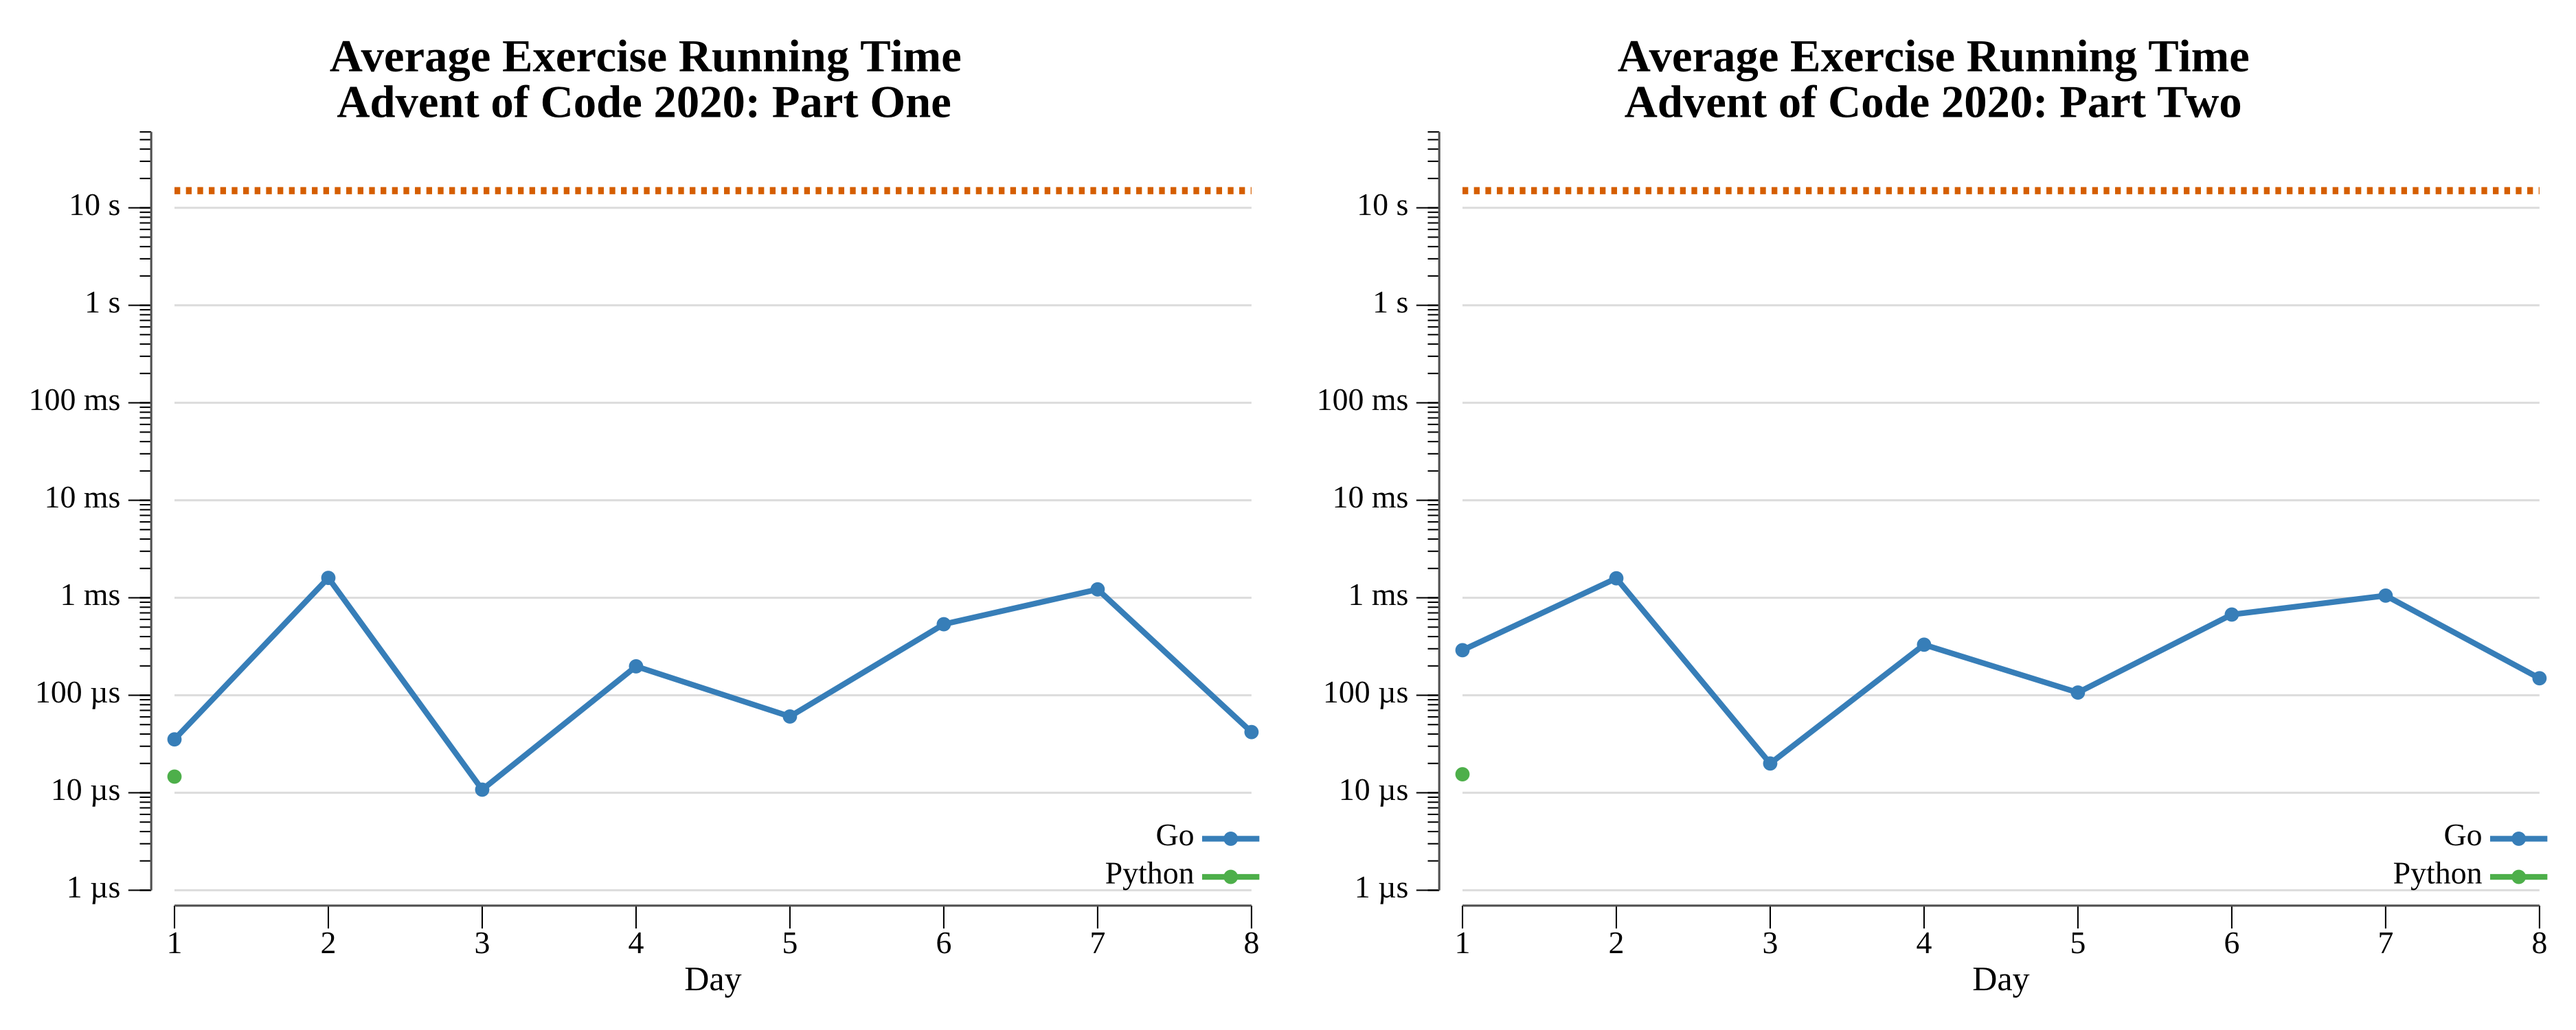
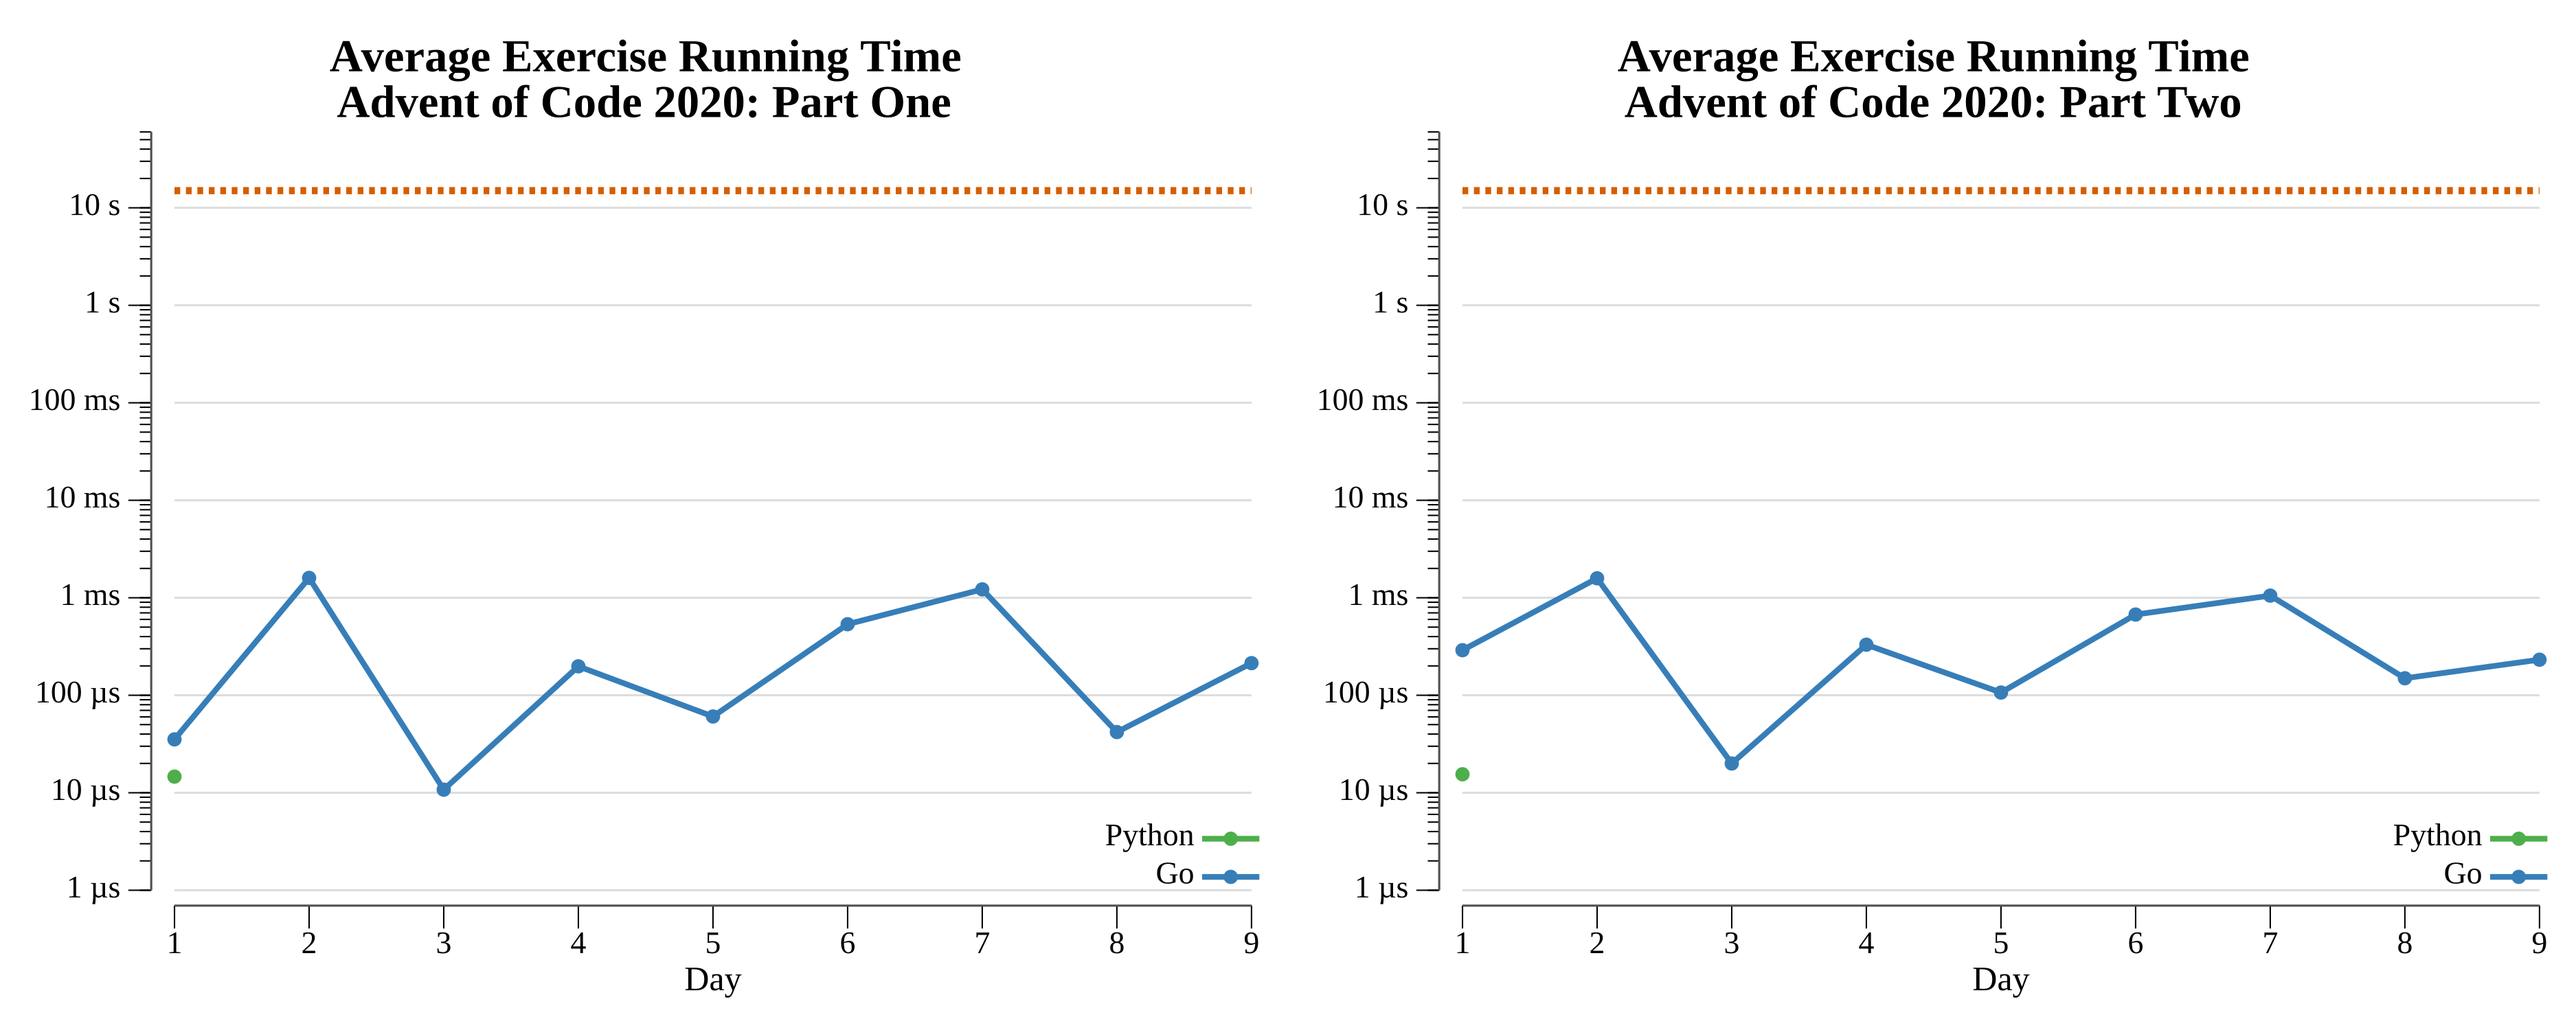
2020 day 9

diff --git a/exercises/2020/09-encodingError/go/vis.go b/exercises/2020/09-encodingError/go/vis.go
@@ -1,0 +1,144 @@
+package exercises
+
+import (
+	"fmt"
+	"math"
+	"os"
+	"path/filepath"
+	"strings"
+)
+
+// Vis plots the number stream and marks the two answers: the first number that
+// breaks the pair-sum rule (Part One) and the contiguous range that sums to it
+// (Part Two), whose smallest and largest members give the weakness. The range is
+// shaded, its min and max are marked, and the invalid value is flagged. Values
+// span a wide magnitude, so the y axis is log-scaled. Highlights use
+// colorblind-safe colors with distinct shapes and labels, so they read in
+// grayscale.
+func (e Exercise) Vis(instr, outdir string) error {
+	nums, err := parse(instr)
+	if err != nil {
+		return err
+	}
+	w := windowFor(nums)
+	target, invIdx := firstInvalid(nums, w)
+
+	// Find the contiguous range summing to target.
+	rangeLo, rangeHi := -1, -1
+	lo, sum := 0, 0
+	for hi := 0; hi < len(nums); hi++ {
+		sum += nums[hi]
+		for sum > target && lo < hi {
+			sum -= nums[lo]
+			lo++
+		}
+		if sum == target && hi > lo {
+			rangeLo, rangeHi = lo, hi
+			break
+		}
+	}
+	// Min and max within the range.
+	minIdx, maxIdx := rangeLo, rangeLo
+	for i := rangeLo; i <= rangeHi; i++ {
+		if nums[i] < nums[minIdx] {
+			minIdx = i
+		}
+		if nums[i] > nums[maxIdx] {
+			maxIdx = i
+		}
+	}
+
+	const (
+		W  = 960
+		H  = 420
+		mL = 60
+		mR = 30
+		mT = 60
+		mB = 50
+	)
+	plotW := W - mL - mR
+	plotH := H - mT - mB
+	n := len(nums)
+
+	// Log scale over positive values.
+	logv := func(v int) float64 {
+		if v < 1 {
+			v = 1
+		}
+		return math.Log(float64(v))
+	}
+	maxL := 0.0
+	for _, v := range nums {
+		if l := logv(v); l > maxL {
+			maxL = l
+		}
+	}
+	xOf := func(i int) int { return mL + i*plotW/(n-1) }
+	yOf := func(v int) int { return mT + plotH - int(logv(v)/maxL*float64(plotH)) }
+
+	var sb strings.Builder
+	fmt.Fprintf(&sb, `<svg xmlns="http://www.w3.org/2000/svg" width="%d" height="%d" viewBox="0 0 %d %d" font-family="monospace">`, W, H, W, H)
+	fmt.Fprintf(&sb, `<rect width="%d" height="%d" fill="#111418"/>`, W, H)
+	fmt.Fprintf(&sb, `<text x="%d" y="34" fill="#e8ecf4" font-size="16">Encoding Error: %d values (log scale)</text>`, mL, n)
+
+	// Shade the summing range with a vertical marker line (it is narrow because
+	// the values climb, so a thin band plus arrow reads better than a caption).
+	if rangeLo >= 0 {
+		x0 := xOf(rangeLo)
+		x1 := xOf(rangeHi)
+		bw := x1 - x0
+		if bw < 3 {
+			bw = 3
+		}
+		fmt.Fprintf(&sb, `<rect x="%d" y="%d" width="%d" height="%d" fill="#009E73" fill-opacity="0.30"/>`, x0, mT, bw, plotH)
+	}
+
+	// Value polyline.
+	var pts []string
+	for i, v := range nums {
+		pts = append(pts, fmt.Sprintf("%d,%d", xOf(i), yOf(v)))
+	}
+	fmt.Fprintf(&sb, `<polyline points="%s" fill="none" stroke="#56B4E9" stroke-width="1"/>`, strings.Join(pts, " "))
+
+	// Invalid value marker (orange diamond) with a leader up into open space.
+	if invIdx >= 0 {
+		x, y := xOf(invIdx), yOf(nums[invIdx])
+		fmt.Fprintf(&sb, `<polygon points="%d,%d %d,%d %d,%d %d,%d" fill="#E69F00"/>`,
+			x, y-7, x+7, y, x, y+7, x-7, y)
+		fmt.Fprintf(&sb, `<line x1="%d" y1="%d" x2="%d" y2="%d" stroke="#E69F00" stroke-width="1"/>`, x, y-7, x, mT+40)
+	}
+
+	// Min/max within the range (yellow / vermilion squares, no inline labels —
+	// values go in the legend to avoid crowding this dense region).
+	if rangeLo >= 0 {
+		for _, m := range []struct {
+			i   int
+			col string
+		}{{minIdx, "#F0E442"}, {maxIdx, "#D55E00"}} {
+			x, y := xOf(m.i), yOf(nums[m.i])
+			fmt.Fprintf(&sb, `<rect x="%d" y="%d" width="9" height="9" fill="%s"/>`, x-4, y-4, m.col)
+		}
+	}
+
+	// Legend box in the open upper-left area.
+	legend := []struct {
+		col, text string
+	}{
+		{"#E69F00", fmt.Sprintf("invalid value (part 1): %d", target)},
+		{"#009E73", fmt.Sprintf("contiguous range: idx %d..%d", rangeLo, rangeHi)},
+		{"#F0E442", fmt.Sprintf("range min: %d", nums[minIdx])},
+		{"#D55E00", fmt.Sprintf("range max: %d", nums[maxIdx])},
+	}
+	lx, ly := mL+10, mT+16
+	fmt.Fprintf(&sb, `<rect x="%d" y="%d" width="300" height="%d" fill="#0d0f18" fill-opacity="0.7"/>`, lx-8, ly-14, len(legend)*22+16)
+	for i, l := range legend {
+		yy := ly + i*22
+		fmt.Fprintf(&sb, `<rect x="%d" y="%d" width="12" height="12" fill="%s"/>`, lx, yy-10, l.col)
+		fmt.Fprintf(&sb, `<text x="%d" y="%d" fill="#e8ecf4" font-size="12">%s</text>`, lx+20, yy, l.text)
+	}
+	fmt.Fprintf(&sb, `<text x="%d" y="%d" fill="#e8ecf4" font-size="14">min + max = %d (part 2)</text>`,
+		mL, H-16, nums[minIdx]+nums[maxIdx])
+
+	sb.WriteString(`</svg>`)
+	return os.WriteFile(filepath.Join(outdir, "encoding-error.svg"), []byte(sb.String()), 0o600)
+}

diff --git a/exercises/2020/09-encodingError/go/exercise.go b/exercises/2020/09-encodingError/go/exercise.go
@@ -1,0 +1,103 @@
+package exercises
+
+import (
+	"fmt"
+	"strconv"
+	"strings"
+
+	"github.com/asphaltbuffet/advent-of-code/internal/common"
+)
+
+// Exercise for Advent of Code 2020 day 9.
+type Exercise struct {
+	common.BaseExercise
+}
+
+func parse(instr string) ([]int, error) {
+	lines := strings.Split(strings.TrimSpace(instr), "\n")
+	nums := make([]int, 0, len(lines))
+	for _, line := range lines {
+		n, err := strconv.Atoi(strings.TrimSpace(line))
+		if err != nil {
+			return nil, fmt.Errorf("parsing %q: %w", line, err)
+		}
+		nums = append(nums, n)
+	}
+	return nums, nil
+}
+
+// windowFor picks the preamble size: 5 for the small example, 25 for the full
+// input. The example has 20 numbers; the real input has hundreds.
+func windowFor(nums []int) int {
+	if len(nums) <= 25 {
+		return 5
+	}
+	return 25
+}
+
+// hasPairSum reports whether two distinct entries of window sum to target.
+func hasPairSum(window []int, target int) bool {
+	seen := map[int]bool{}
+	for _, v := range window {
+		if seen[target-v] {
+			return true
+		}
+		seen[v] = true
+	}
+	return false
+}
+
+// firstInvalid returns the first number that is not a sum of two of the preceding
+// `w` numbers, and its index.
+func firstInvalid(nums []int, w int) (int, int) {
+	for i := w; i < len(nums); i++ {
+		if !hasPairSum(nums[i-w:i], nums[i]) {
+			return nums[i], i
+		}
+	}
+	return 0, -1
+}
+
+// One returns the first number that breaks the XMAS pair-sum rule.
+func (e Exercise) One(instr string) (any, error) {
+	nums, err := parse(instr)
+	if err != nil {
+		return nil, err
+	}
+	val, _ := firstInvalid(nums, windowFor(nums))
+	return fmt.Sprintf("%d", val), nil
+}
+
+// Two finds the contiguous range summing to the part-one target and returns the
+// sum of that range's smallest and largest members (the encryption weakness).
+func (e Exercise) Two(instr string) (any, error) {
+	nums, err := parse(instr)
+	if err != nil {
+		return nil, err
+	}
+	target, _ := firstInvalid(nums, windowFor(nums))
+
+	// Sliding window: grow the right edge, shrink the left while over target.
+	lo, sum := 0, 0
+	for hi := 0; hi < len(nums); hi++ {
+		sum += nums[hi]
+		for sum > target && lo < hi {
+			sum -= nums[lo]
+			lo++
+		}
+		if sum == target && hi > lo {
+			min, max := nums[lo], nums[lo]
+			for _, v := range nums[lo : hi+1] {
+				if v < min {
+					min = v
+				}
+				if v > max {
+					max = v
+				}
+			}
+			return fmt.Sprintf("%d", min+max), nil
+		}
+	}
+
+	return nil, fmt.Errorf("no contiguous range sums to %d", target)
+}

diff --git a/exercises/2020/09-encodingError/README.md b/exercises/2020/09-encodingError/README.md
@@ -1,0 +1,49 @@
+# [Day 9: Encoding Error](https://adventofcode.com/2020/day/9)
+
+<!-- These are helper text to make formatting the yearly readme consistent and easier...
+
+[Day 9: Encoding Error][rm9]
+[Go][go9]
+
+[rm9]: 09-encodingError/README.md
+[go9]: 09-encodingError/go
+
+-->
+
+## Notes
+
+XMAS validation over a sliding preamble. The preamble size differs between the
+example (5) and the real input (25), so it is inferred from the input length.
+
+- **Part One** finds the first number that is not a sum of two of the preceding
+  `w` numbers, using a complement set per window.
+- **Part Two** finds the contiguous range summing to that number with a sliding
+  window (grow the right edge, shrink the left while over target) and returns the
+  sum of the range's smallest and largest members.
+
+## Go
+
+```text
+────────────────────────────────────────
+─      2020 Day 9: Encoding Error      ─
+────────────────────────────────────────
+
+Solving (Go)…
+1.0:  PASS           222.612µs
+2.0:  PASS           248.306µs
+```
+
+## Visualization
+
+The number stream on a log scale (values climb steadily), with both answers
+marked: the invalid value (Part One) flagged with an orange diamond, and the
+contiguous range that sums to it (Part Two) shaded green, with its smallest and
+largest members squared in yellow and vermilion. A legend carries the exact
+values so the dense region near the range stays readable, and every mark uses a
+colorblind-safe color with a labeled legend entry, so it reads in grayscale.
+
+![Number stream with invalid value and summing range](encoding-error.svg)
+
+## Run Times
+
+![Day 9 run-time graphs](run-times.png)

diff --git a/exercises/2020/README.md b/exercises/2020/README.md
@@ -14,7 +14,7 @@
 | [Day 6: Custom Customs][rm_6] |  ★ ★  | [Go][go_6] |
 | [Day 7: Handy Haversacks][rm_7] |  ★ ★  | [Go][go_7] |
 | [Day 8: Handheld Halting][rm_8] |  ★ ★  | [Go][go_8] |
-| 9                            |  ☆ ☆  |            |
+| [Day 9: Encoding Error][rm_9] |  ★ ★  | [Go][go_9] |
 | 10                           |  ☆ ☆  |            |
 | 11                           |  ☆ ☆  |            |
 | 12                           |  ☆ ☆  |            |
@@ -48,6 +48,8 @@
 [go_7]: 07-handyHaversacks/go
 [rm_8]: 08-handheldHalting/README.md
 [go_8]: 08-handheldHalting/go
+[rm_9]: 09-encodingError/README.md
+[go_9]: 09-encodingError/go
 
 ## 2020 Run Times
 
